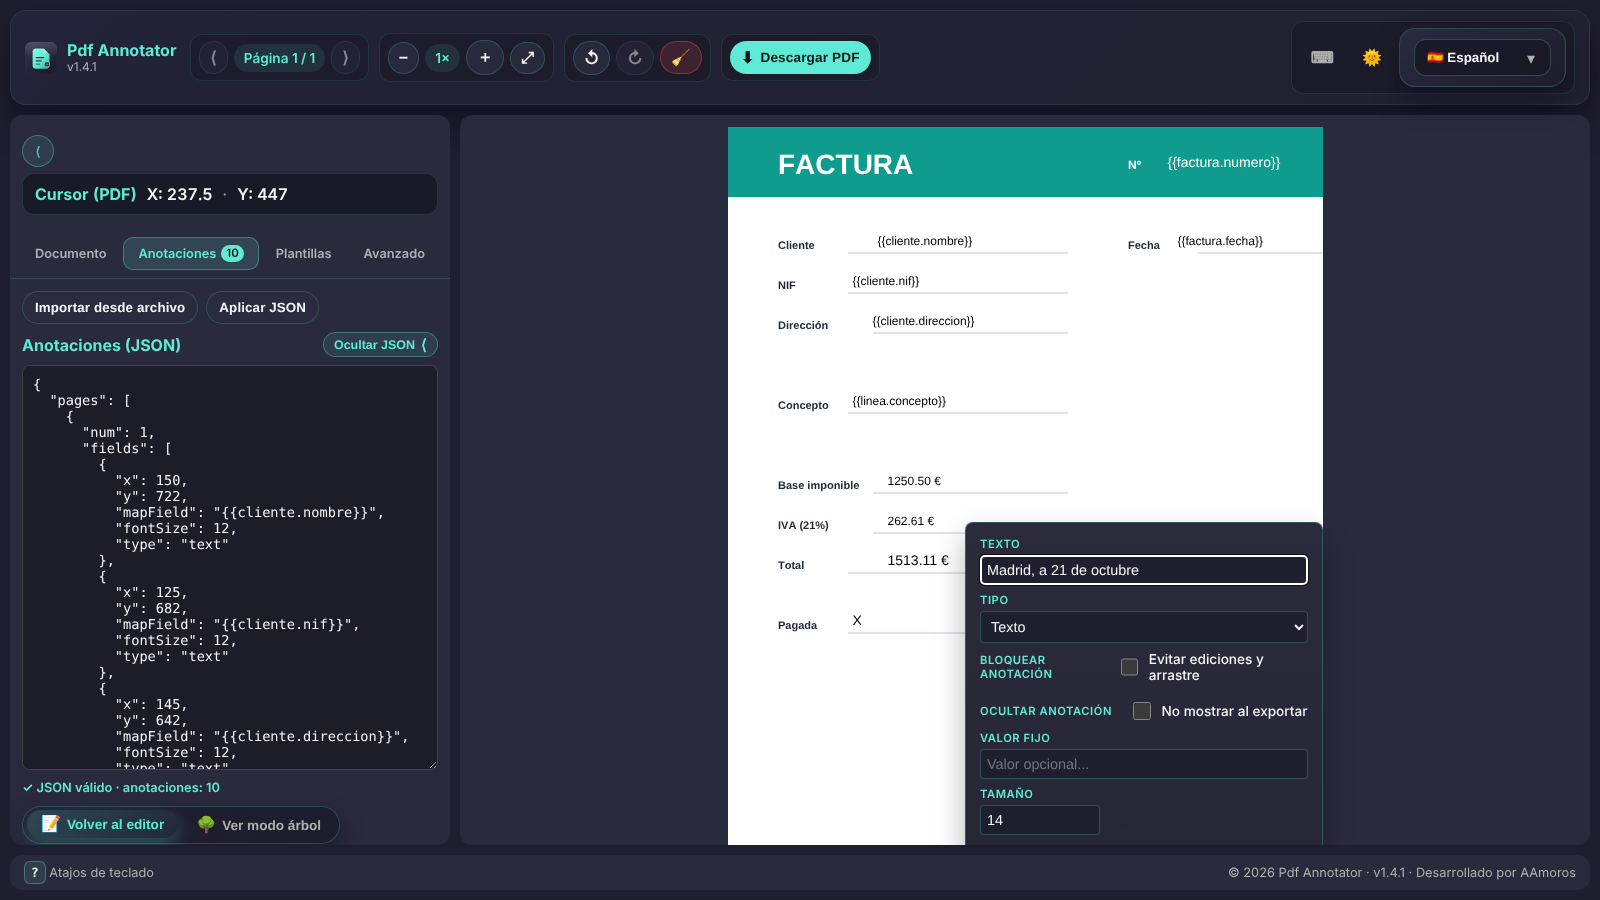
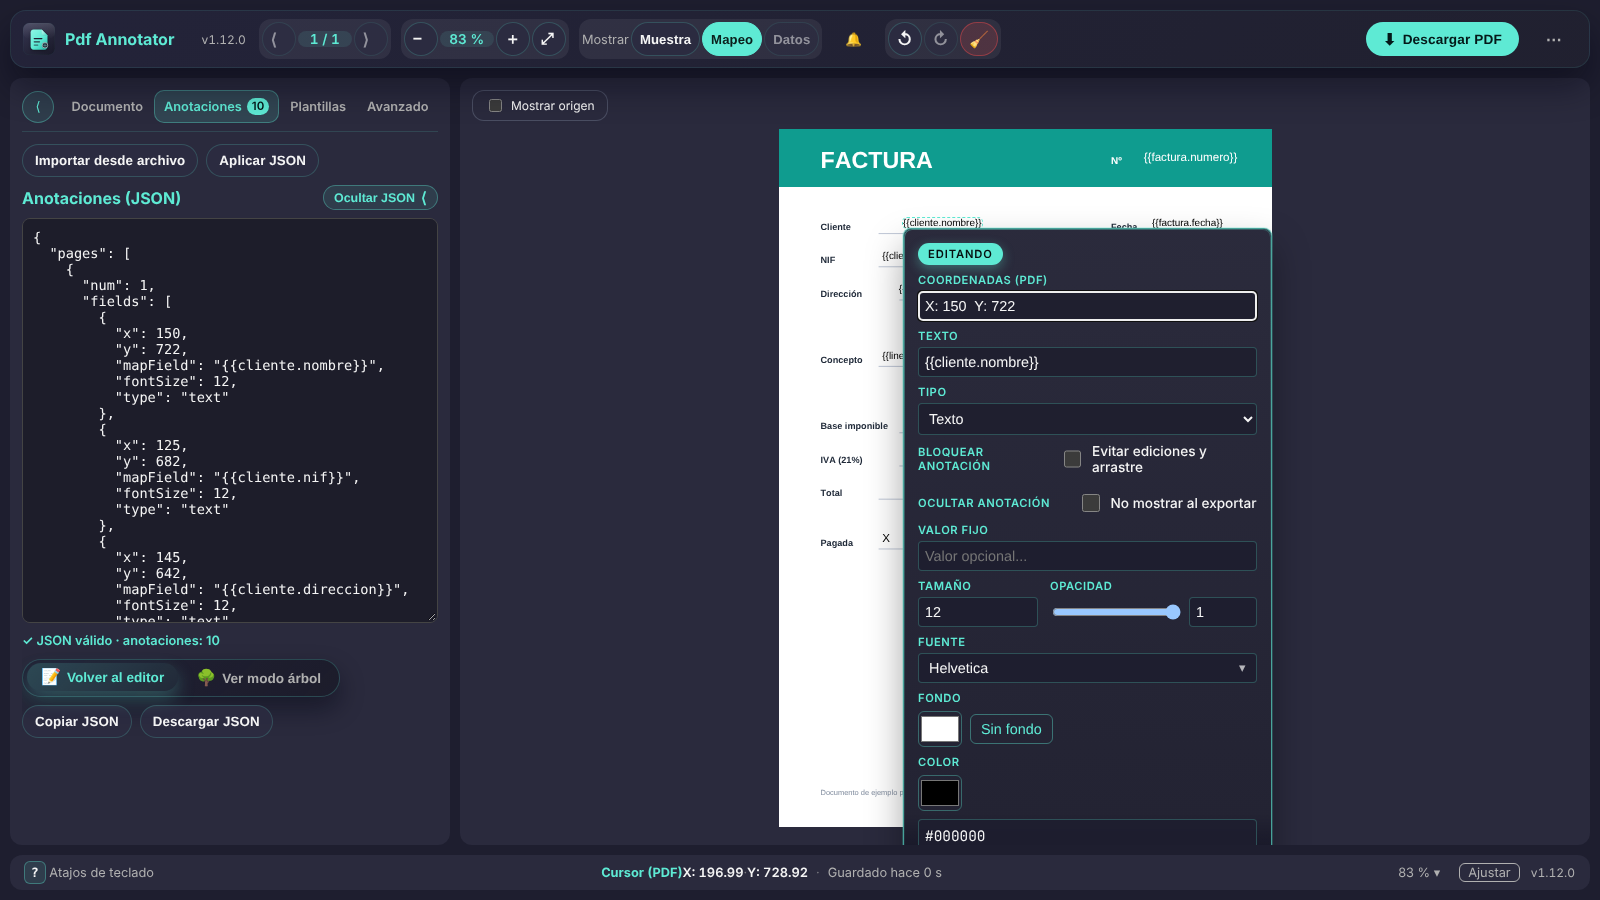
Refresh README screenshots and text for v1.12
New screenshots from the current build (landing, editor, editing an
annotation, JSON tree, guides, shortcuts, light theme) plus two of the
batch flow (panel with B versions, split editor). Drop the mobile
screenshot: the app is designed for desktop only. Update the header,
footer and guides text, add a batch section and workflow, and bump the
Angular and TypeScript badges. scripts/screenshots.mjs regenerates all
screenshots from the production build.

Claude-Session: https://claude.ai/code/session_01Qr3kqP8YEnyYmPHoxB7U7i

diff --git a/README.md b/README.md
@@ -12,12 +12,12 @@
 <p align="center">
   <a href="CHANGELOG.md"><img src="https://img.shields.io/badge/version-1.12.0-4dd9c0?style=for-the-badge" alt="Versión 1.12.0" /></a>
   <a href="LICENSE"><img src="https://img.shields.io/badge/license-MIT-blue?style=for-the-badge" alt="Licencia MIT" /></a>
-  <img src="https://img.shields.io/badge/Angular-20-dd0031?style=for-the-badge&logo=angular&logoColor=white" alt="Angular 20" />
+  <img src="https://img.shields.io/badge/Angular-22-dd0031?style=for-the-badge&logo=angular&logoColor=white" alt="Angular 22" />
   <img src="https://img.shields.io/badge/Node-26-339933?style=for-the-badge&logo=nodedotjs&logoColor=white" alt="Node 26" />
 </p>
 
 <p align="center">
-  <img src="https://img.shields.io/badge/TypeScript-5.9-3178c6?logo=typescript&logoColor=white" alt="TypeScript" />
+  <img src="https://img.shields.io/badge/TypeScript-6.0-3178c6?logo=typescript&logoColor=white" alt="TypeScript" />
   <img src="https://img.shields.io/badge/Docker-ready-2496ed?logo=docker&logoColor=white" alt="Docker" />
   <img src="https://img.shields.io/badge/i18n-ES%20·%20EN%20·%20CA%20·%20FR%20·%20IT%20·%20PT%20·%20DE-ff9f43" alt="Idiomas" />
   <a href="https://github.com/ElMaxter99/pdf-annotator/stargazers"><img src="https://img.shields.io/github/stars/ElMaxter99/pdf-annotator?style=flat&logo=github" alt="Stars" /></a>
@@ -96,7 +96,7 @@ Requisitos: **Node 26** y un navegador moderno. ¿Prefieres contenedor? `npm run
 
 ## 🧭 Tour de la interfaz
 ### 1 · Pantalla de bienvenida
-Arrastra un PDF o haz clic para seleccionarlo. El idioma se cambia arriba a la derecha.
+Arrastra un PDF o haz clic para seleccionarlo; con **dos o más PDFs** empieza un [lote](#7--lote-de-pdfs-y-versiones-nuevas). ¿Sin PDF a mano? **Probar con un documento de ejemplo**. Si dejaste trabajo a medias, aquí aparece **Continuar donde lo dejaste**. Tema e idioma, arriba a la derecha.
 
 <p align="center"><img src="./screenshots/main.png" alt="Pantalla de bienvenida" width="85%" /></p>
 
@@ -105,10 +105,12 @@ Arrastra un PDF o haz clic para seleccionarlo. El idioma se cambia arriba a la d
 
 | Zona | Qué hay |
 | --- | --- |
-| **Cabecera** (una fila) | Página anterior/siguiente · zoom `−`/`+`/**Ajustar** · deshacer/rehacer/limpiar · **Descargar PDF** · **Atajos** · tema · idioma. |
-| **Panel lateral** (4 pestañas) | Cursor en coordenadas PDF siempre visible, y debajo: **Documento** (cambiar de PDF, miniaturas) · **Anotaciones** (editor JSON en texto o árbol, importar/aplicar, copiar, descargar; con contador) · **Plantillas** · **Avanzado** (fuentes, guías, campos extra del JSON, valores de muestra y datos de prueba). Se navega con ratón o flechas ←/→. Se minimiza con `B`. |
-| **Visor** | Página con capa de anotaciones. Clic para crear, clic sobre una anotación para editarla, arrastrar para moverla. Scroll propio. |
-| **Pie** | Recordatorio de `?` y versión. |
+| **Cabecera** (una fila) | Logo (vuelve al inicio) y versión · página anterior/siguiente · zoom `−`/`+`/**Ajustar al ancho** · **Mostrar** *Muestra* / *Mapeo* / *Datos* (qué se pinta en cada anotación) · avisos 🔔 · deshacer/rehacer/limpiar · **Descargar PDF** · menú **⋯** (atajos, acerca de, tema e idioma). |
+| **Panel lateral** (4 pestañas) | **Documento** (cambiar de PDF, miniaturas) · **Anotaciones** (editor JSON en texto o árbol, importar/aplicar, copiar, descargar; con contador) · **Plantillas** · **Avanzado** (fuentes, guías, campos extra del JSON, valores de muestra y datos de prueba). Se navega con ratón o flechas ←/→. Se minimiza con `B`. |
+| **Visor** | Página con capa de anotaciones. Clic para crear, clic sobre una anotación para editarla, arrastrar para moverla. `Ctrl/⌘ + rueda` o pellizco para el zoom, `Espacio` + arrastrar para mover el lienzo. **Mostrar origen** marca si cada texto sale del valor, de los datos de prueba o de una muestra. |
+| **Pie** | `?` (atajos) · cursor en coordenadas PDF · «Guardado hace N s» · menú de zoom y **Ajustar** (página entera) · versión. |
+
+Tu trabajo se guarda solo en el navegador: si recargas, el editor vuelve a abrir el PDF con sus anotaciones, y **Atrás / Adelante** te llevan entre el inicio y el PDF.
 
 ### 3 · Edita cada anotación
 Texto (`mapField`), tipo, bloqueo/ocultar, valor fijo, decimales y sufijo (números), tamaño, opacidad, fuente (buscador), fondo y color. Los botones permiten **duplicar** ⧉, **borrar** 🗑, confirmar ✅ o cancelar ❌.
@@ -116,7 +118,7 @@ Texto (`mapField`), tipo, bloqueo/ocultar, valor fijo, decimales y sufijo (núme
 <p align="center"><img src="./screenshots/example_use.png" alt="Editor de anotación" width="90%" /></p>
 
 ### 4 · Guías y precisión
-En **Opciones avanzadas → Activar guías y snapping** aparecen rejilla, reglas en puntos PDF y líneas de alineación.
+En la pestaña **Avanzado → Opciones avanzadas → Activar guías y snapping** aparecen rejilla, reglas en puntos PDF y líneas de alineación, con imán a rejilla, márgenes, centros o coordenadas propias.
 
 <p align="center"><img src="./screenshots/guides.png" alt="Guías, reglas y rejilla" width="90%" /></p>
 
@@ -125,12 +127,22 @@ Alterna entre editor de texto y árbol; al seleccionar una anotación en el viso
 
 <p align="center"><img src="./screenshots/json-tree.png" alt="JSON en árbol" width="90%" /></p>
 
-### 6 · Atajos, tema claro y móvil
+### 6 · Atajos y tema claro
+Pulsa `?` para ver todos los atajos. El tema claro y el idioma están en el menú **⋯** de la cabecera (y en la pantalla de bienvenida).
+
 <p align="center">
   <img src="./screenshots/shortcuts.png" alt="Diálogo de atajos" width="48%" />
   <img src="./screenshots/light.png" alt="Tema claro" width="48%" />
 </p>
-<p align="center"><img src="./screenshots/mobile.png" alt="Vista móvil" width="26%" /></p>
+
+### 7 · Lote de PDFs y versiones nuevas
+Suelta **dos o más PDFs** en la bienvenida: dos pasos (subir los PDF y sus plantillas JSON, emparejadas por nombre o pegadas desde Mongo) y llegas al **panel del lote**. Ahí añades las **versiones nuevas (B)**, que se emparejan solas por nombre, y ves de un vistazo qué tiene cada PDF y qué falta, en lista o cuadrícula, con filtros y selección múltiple.
+
+<p align="center"><img src="./screenshots/batch-panel.png" alt="Panel del lote con versiones B" width="95%" /></p>
+
+Cada PDF se abre en el mismo editor: editas **B** con la plantilla **A** como referencia, **Encima**, **Alternar** o **Dividida** (A a la izquierda, solo lectura; B a la derecha). **Poner plantilla A ▾** copia los campos tal cual, los **ajusta por textos** si la página se ha movido o, en local y en la app de escritorio, los **adapta con IA**. Cada campo dice si está igual, movido o falta, y **Listo** lo marca como terminado para descargarlo.
+
+<p align="center"><img src="./screenshots/batch-split.png" alt="Editor del lote en vista dividida" width="95%" /></p>
 
 ## 🔄 Flujos de trabajo
 ### A · Mapear una factura para tu backend
@@ -164,6 +176,12 @@ Alterna entre editor de texto y árbol; al seleccionar una anotación en el viso
 
 ### E · Revisión de un PDF largo
 Miniaturas para saltar de página, `←/→` para navegar, `+/−` para zoom, **Deshacer** (`Ctrl/⌘+Z`) ante cualquier error y **Limpiar** para empezar de cero.
+
+### F · Llevar plantillas a versiones nuevas de los PDF
+1. Suelta los PDF originales (A) en la bienvenida y, en el paso 2, sus plantillas JSON.
+2. En el panel, **Añadir más** con los PDF nuevos (B); se emparejan por nombre.
+3. **Revisar siguiente** → **Poner plantilla A ▾ → Copiar y ajustar por textos** → revisa en **Dividida** → **Aplicar N cambios** → **Listo**.
+4. **Descargar listos**: el JSON de cada B (en un ZIP si son varios).
 
 ## 🤖 Adaptar con IA
 Cuando llega una **versión nueva (B)** de un PDF del que ya tienes la plantilla (A), «Copiar y adaptar con IA» recoloca los campos de A en B aunque el texto cambie de redacción, un campo se mueva o pase a **otra página**. Usa **tu propio `claude` o `copilot`** con tu suscripción: sin claves de API, sin tokens de pago y **solo en local** (no existe en el despliegue ni en Docker).
@@ -283,7 +301,7 @@ Se acepta también un array directo de páginas. Detalle del modelo en [`docs/AR
 ## 🧰 Stack
 | Frontend | PDF | Calidad |
 | --- | --- | --- |
-| Angular 20 · signals · standalone · SCSS | `pdfjs-dist` (render) · `pdf-lib` + `fontkit` (export) | Karma/Jasmine · i18n check · Prettier |
+| Angular 22 · signals · standalone · SCSS | `pdfjs-dist` (render) · `pdf-lib` + `fontkit` (export) | Karma/Jasmine · Playwright · i18n check · Prettier |
 
 ## 🐳 Despliegue
 ```bash
@@ -308,6 +326,7 @@ sh scripts/docker-down.sh     # detener
 | `npm run e2e` | Pruebas end-to-end con Playwright sobre el build de producción |
 | `npm run i18n:check` | Claves de los 7 idiomas coherentes |
 | `node scripts/generate-example.mjs` | Regenera el PDF de ejemplo |
+| `node scripts/screenshots.mjs` | Regenera las capturas del README (`screenshots/`) desde el build (`npm run build` antes) |
 
 Estructura, convenciones y trampas conocidas: [`AGENTS.md`](AGENTS.md) (para personas y agentes de IA) y [`docs/ARCHITECTURE.md`](docs/ARCHITECTURE.md). Hoja de ruta: [`docs/ROADMAP.md`](docs/ROADMAP.md). Cómo contribuir: [`CONTRIBUTING.md`](CONTRIBUTING.md).
 
@@ -322,7 +341,7 @@ Estructura, convenciones y trampas conocidas: [`AGENTS.md`](AGENTS.md) (para per
 | `ng serve` no encuentra el builder | Ejecuta `npm install` antes de `npm run start:local`. |
 
 ## 🗺 Roadmap
-Pestañas en el panel lateral, selección múltiple y alineación, validación por esquema de cada campo y refactor del componente principal. Detalle en [`docs/ROADMAP.md`](docs/ROADMAP.md).
+Más traslado masivo con IA (cola que sobreviva a recargas), dividir el componente principal del editor, rendimiento y más tests. Detalle en [`docs/ROADMAP.md`](docs/ROADMAP.md).
 
 ## 🤝 Contribuir
 Issues y PRs son bienvenidos: usa las plantillas de [`.github/`](.github) y revisa [`CONTRIBUTING.md`](CONTRIBUTING.md).

diff --git a/CHANGELOG.md b/CHANGELOG.md
@@ -1,5 +1,6 @@
 ## Unreleased
 ### Changed
+- **README al día con la v1.12:** capturas nuevas (bienvenida, editor, editar una anotación, árbol JSON, guías, atajos, tema claro) y dos nuevas del lote (panel con versiones B y editor en «Dividida»); se quita la captura móvil (la app es solo de escritorio). Textos de la cabecera, el pie, las guías y una sección y un flujo nuevos para el lote; insignias de Angular 22 y TypeScript 6.0. `node scripts/screenshots.mjs` regenera todas las capturas desde el build.
 - **Node 26 y Angular 22 (sin cambios visibles):** el proyecto pasa a Node 26 (`Dockerfile`, workflows de CI/release/escritorio, `engines`, README y AGENTS.md) y Angular 20 → 22 (vía 21) con TypeScript 6.0, `zone.js` 0.16, `jasmine-core` 7, `karma-jasmine-html-reporter` 2.3 y `@types/node` 26. Los componentes mantienen la detección de cambios clásica (`ChangeDetectionStrategy.Eager`), `tsconfig` sin `baseUrl`/`lib` y `main.server.ts` usa `BootstrapContext`.
 
 ## [v1.12.0](https://github.com/ElMaxter99/pdf-annotator/tree/v.1.12.0) - 2026-11-16

diff --git a/AGENTS.md b/AGENTS.md
@@ -23,6 +23,7 @@ Rutas: `/landing` (carga inicial) → `/workspace` (editor). Idiomas: es-ES, en,
 | `npm run e2e` | Playwright sobre el build de producción (`npm run build` antes; `PW_CHROMIUM=<ruta>` para usar un Chromium ya instalado) |
 | `npm run i18n:check` | Verifica que los 7 JSON de traducción tengan **las mismas claves** que `es-ES` |
 | `node scripts/generate-example.mjs` | Regenera `examples/factura-ejemplo.pdf` |
+| `node scripts/screenshots.mjs` | Regenera las capturas del README (`screenshots/`) desde el build; `PW_CHROMIUM=<ruta>` para un Chromium ya instalado |
 | `npm run start:docker` | Imagen NGINX en `http://localhost:4444` |
 | Publicar versión | Ver [`docs/RELEASING.md`](docs/RELEASING.md): subida de versión → release candidate → pruebas → «Release» → Vercel (normalmente lo ejecuta Claude; **lee la Parte B entera antes de sacar una versión**) |
 
